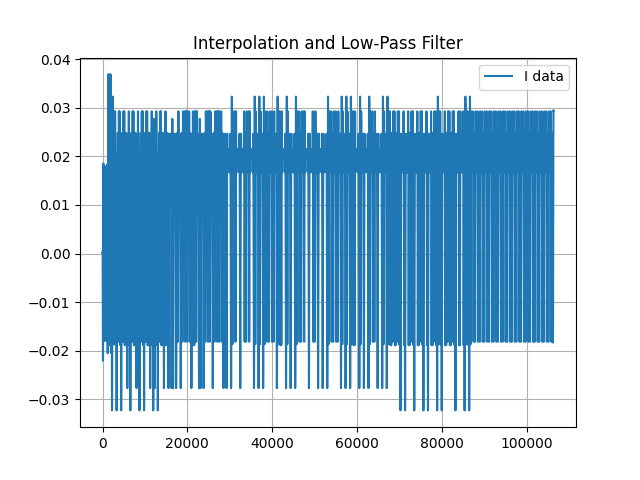
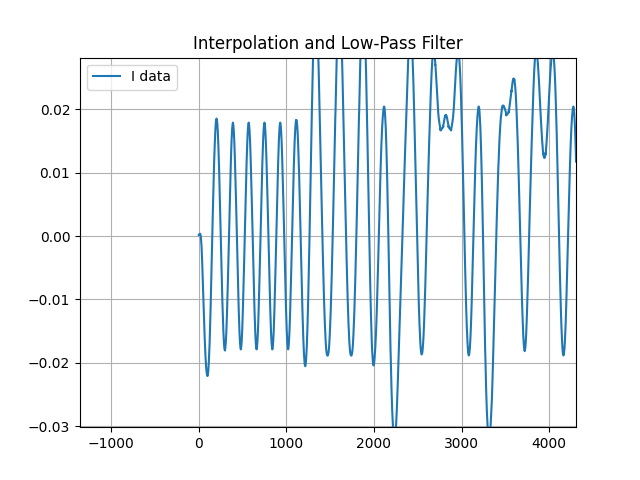
just

diff --git a/test.py b/test.py
@@ -1,29 +1,51 @@
 import numpy as np
 import matplotlib.pyplot as plt
-from scipy.signal import get_window, correlate
 
-preamble = [1,1,-1,1,1,-1,1,1,-1,1,-1,-1,1,1,-1,1,1]
-Con_sine = [-1,1,-1,1,-1,1,-1,1,-1,1,-1,1,-1]
+# Parameters
+N = 1000  # Number of symbols
+sps = 8   # Samples per symbol
+fc = 2e3  # Carrier frequency
+fs = 16e3 # Sampling rate
+t = np.arange(0, N*sps)/fs
 
-def Add_Preamble(Data):
-    Data = Con_sine+preamble+list(Data)
-    return  Data
+# Bit generation
+bits = np.random.randint(0, 2, N*2)
+symbols = bits.reshape(-1, 2)
 
+# QPSK Mapping
+mapping = {
+    (0,0): (1, 1),
+    (0,1): (-1, 1),
+    (1,1): (-1, -1),
+    (1,0): (1, -1)
+}
+I, Q = zip(*[mapping[tuple(b)] for b in symbols])
+I = np.repeat(I, sps)
+Q = np.repeat(Q, sps)
 
-def Remove_Preamble(Sample):
-    Samples = []
-    for k in Sample:
-        Samples.append(-1 if k < 0 else 1)
+# IQ modulation
+carrier_I = np.cos(2*np.pi*fc*t)
+carrier_Q = np.sin(2*np.pi*fc*t)
+tx_signal = I * carrier_I - Q * carrier_Q
 
-    corr = correlate(np.array(Samples), np.array(preamble), mode='valid')
-    peek = np.argmax(corr)
-    Data = Samples[peek+len(preamble)::]
-    return Data
+# IQ demodulation (coherent)
+rx_I = tx_signal * carrier_I * 2
+rx_Q = -tx_signal * carrier_Q * 2
 
-DATA = [1,-1,1,-1,1,1,1,1]
-print(DATA)
-pre = Add_Preamble(DATA)
-rem = Remove_Preamble(pre)
+# Low-pass filter (simple moving average here)
+def lpf(signal, span=16):
+    return np.convolve(signal, np.ones(span)/span, mode='same')
 
-print(pre)
-print(rem)
+I_baseband = lpf(rx_I)
+Q_baseband = lpf(rx_Q)
+
+# Downsample (symbol decisions)
+I_sym = I_baseband[sps//2::sps]
+Q_sym = Q_baseband[sps//2::sps]
+
+plt.figure()
+plt.scatter(I_sym, Q_sym)
+plt.title("QPSK Constellation After Demodulation")
+plt.grid(True)
+plt.axis('equal')
+plt.show()

diff --git a/QPSK_sim.py b/QPSK_sim.py
@@ -199,6 +199,8 @@ def rrc_filter(alpha, span, sps):
     h = numerator / denominator
     h /= np.sqrt(np.sum(h**2))  # Normalize energy
     return h
+
+
     
 
 Test_S = None
@@ -396,11 +398,12 @@ def Modulate (Data):
     plt.show(block = False)
 
     input()
+    carrier_I = np.cos(2*np.pi* Fc * tfc)
+    carrier_Q = np.sin(2*np.pi* Fc * tfc)
 
-    Sig_I = DAC_upI * np.cos(2 * np.pi * Fc * tfc)
-    Sig_Q = DAC_upQ * np.sin(2 * np.pi * Fc * tfc)
-
-    
+    Sig_I = DAC_upI * carrier_I 
+    Sig_Q = DAC_upQ * carrier_Q
+  
 
     plt.cla()
     plt.plot(Sig_I,label = 'I data')
@@ -414,10 +417,10 @@ def Modulate (Data):
     input()
 
     DAC_GAIN = 0
-    Sig_I = Sig_I * (2**DAC_GAIN)
-    Sig_Q = Sig_Q * (2**DAC_GAIN)
 
     DAC_OUT = Sig_I - Sig_Q
+
+    DAC_OUT = DAC_OUT* (2** DAC_GAIN)
     
     plt.cla()
     plt.plot(DAC_OUT,label = 'DAC data')
@@ -445,8 +448,14 @@ def Demodulate (ADC_IN):
     #Fc = int(input('Enter Frequency(MHz): '))*1e6
 
 
-    Sig_I = ADC_IN * np.cos(2 * np.pi * Fc * tfc)
-    Sig_Q = ADC_IN * np.sin(2 * np.pi * Fc * tfc)
+    carrier_I = np.cos(2*np.pi* Fc * tfc)
+    carrier_Q = np.sin(2*np.pi* Fc * tfc)
+
+    Sig_I = ADC_IN * carrier_I * 2
+    Sig_Q = -ADC_IN * carrier_Q * 2
+
+
+
     
     plt.cla()
     plt.plot(Sig_I,label = 'ADC data')
